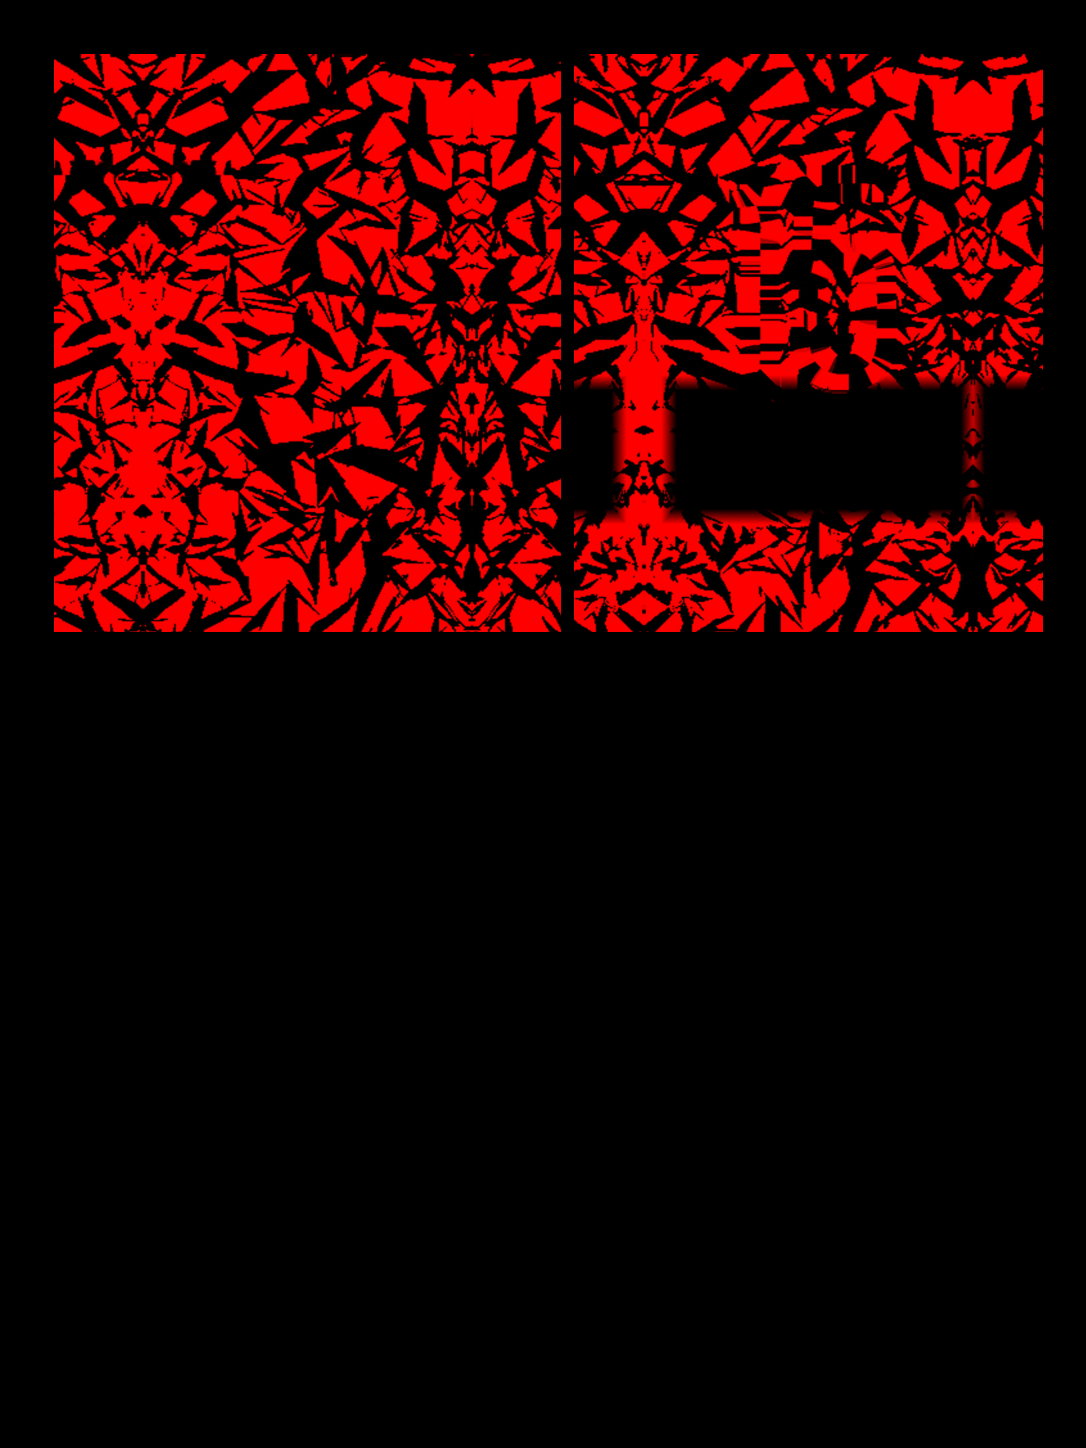
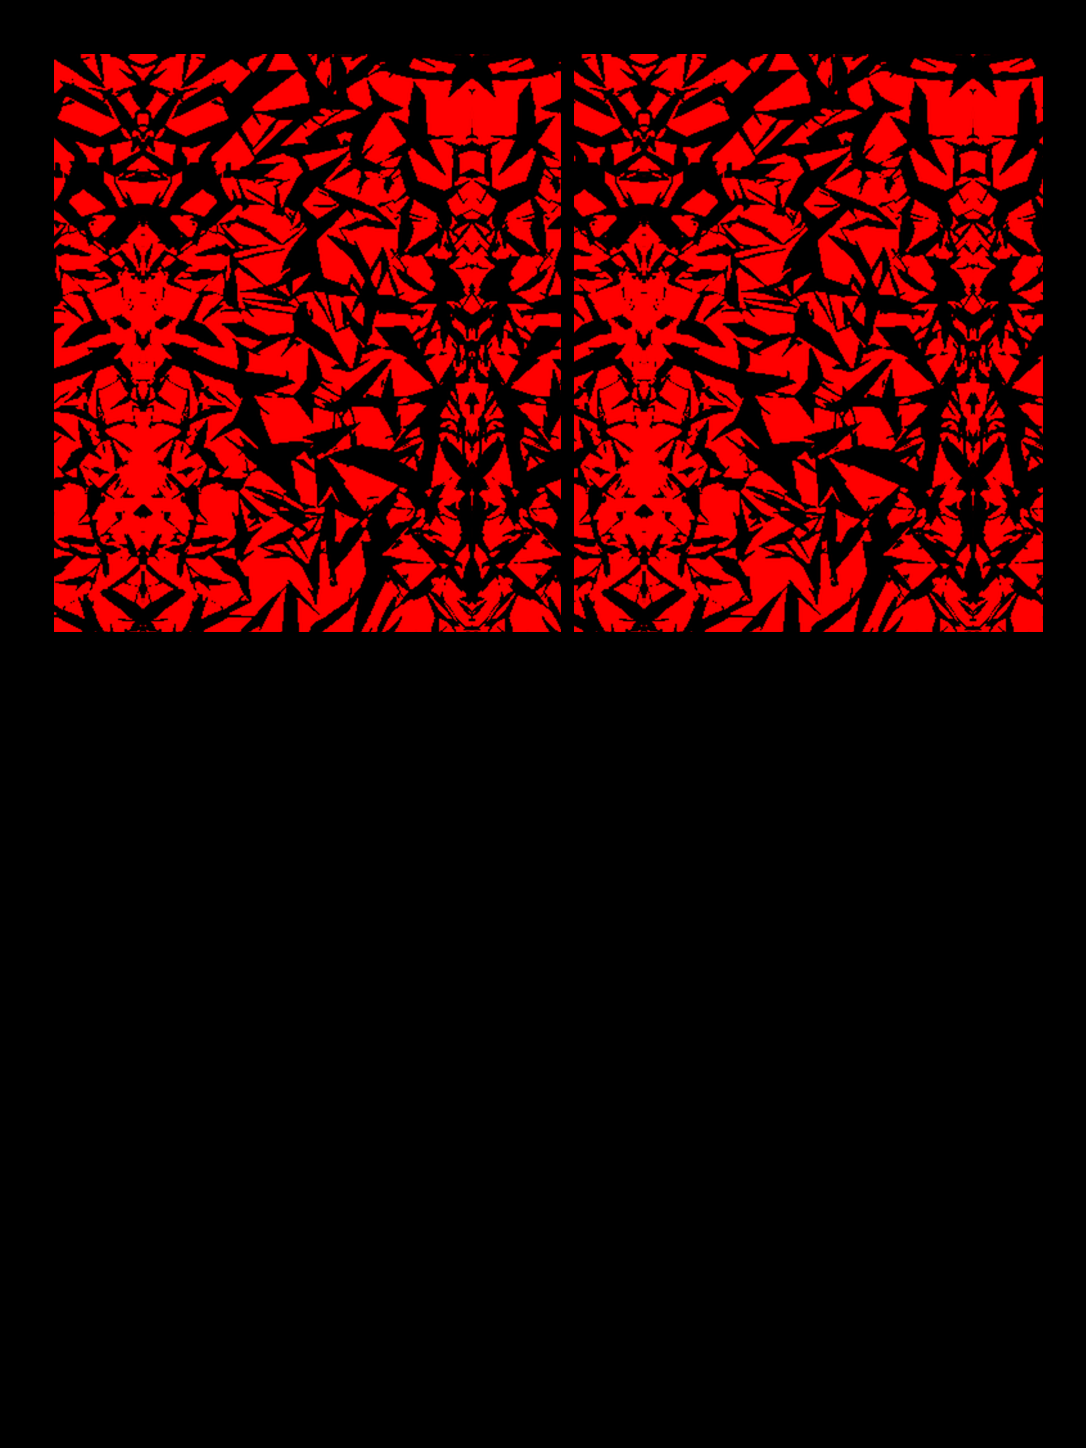
obnova

Changed region(s): [[0.5166, 0.0311, 0.9724, 0.4351]]

diff --git a/index.html b/index.html
@@ -7,7 +7,7 @@
   <meta name="description" content="Конструктор экипировки RLS: футбольная форма, костюмы, ветровки и зимние куртки в цветах вашей команды.">
   <title>RLS — Конструктор экипировки</title>
   <link rel="preload" href="assets/name-font.woff2?v=8" as="font" type="font/woff2" crossorigin>
-  <link rel="stylesheet" href="styles.css?v=22t1">
+  <link rel="stylesheet" href="styles.css?v=22t2">
 </head>
 <body>
   <header class="header">
@@ -58,10 +58,9 @@
       <section class="training-variant-section" id="trainingVariantSection" aria-labelledby="trainingVariantTitle" hidden>
         <h3 id="trainingVariantTitle">Вариант кофты</h3>
         <div class="training-options" role="group" aria-labelledby="trainingVariantTitle">
-          <button class="training-option active" data-training-part="top" data-mode="inserts" type="button" aria-pressed="true">С вставками</button>
+          <button class="training-option active" data-training-part="top" data-mode="inserts" type="button" aria-pressed="true">Со вставками</button>
           <button class="training-option" data-training-part="top" data-mode="print" type="button" aria-pressed="false">С принтом</button>
-          <button class="training-option" data-training-part="top" data-mode="plain" type="button" aria-pressed="false">Без принта</button>
-          <button class="training-option" data-training-part="bottom" data-mode="inserts" type="button" aria-pressed="true" hidden>С вставками</button>
+          <button class="training-option" data-training-part="bottom" data-mode="inserts" type="button" aria-pressed="true" hidden>Со вставками</button>
           <button class="training-option" data-training-part="bottom" data-mode="plain" type="button" aria-pressed="false" hidden>Без вставок</button>
         </div>
         <p class="name-hint" id="trainingVariantHint">Принт наносится только на кофту, включая рукава и воротник.</p>
@@ -143,6 +142,6 @@
     </div>
   </dialog>
   <div class="toast" id="toast" role="status" aria-live="polite"></div>
-  <script type="module" src="app.js?v=22t1"></script>
+  <script type="module" src="app.js?v=22t2"></script>
 </body>
 </html>

diff --git a/app.js b/app.js
@@ -5,8 +5,8 @@ import {drawBoots,BOOT_PLACEMENTS} from './boots.js?v=8';
 import {createExportFeedback,waitForExportPaint} from './export-feedback.js?v=12';
 import {normalizeSuitState,suitAsset} from './suit-renderer.js?v=20';
 import {createSuitPreview} from './suit-preview.js?v=20';
-import {normalizeTrainingState,trainingAsset} from './training-renderer.js?v=22t1';
-import {createTrainingPreview} from './training-preview.js?v=22t1';
+import {normalizeTrainingState,applyTrainingReferenceColors,trainingAsset} from './training-renderer.js?v=22t2';
+import {createTrainingPreview} from './training-preview.js?v=22t2';
 import {OUTERWEAR,createOuterwearConfig} from './outerwear-renderer.js?v=20';
 import {recordMockupDownload} from './download-stats.js?v=22';
 const $ = id => document.getElementById(id);
@@ -214,8 +214,8 @@ function updateControls() {
   $('backLogoColorButton').hidden=!state.backLogoEnabled;
   $('backLogoDot').style.backgroundColor=state.backLogo;
   const activePattern=isTraining?trainingState.pattern:state.pattern;
-  $('referenceColors').hidden=!PATTERNS.find(p=>p.id===activePattern)?.colors;
-  $('referenceColors').textContent=isTraining?'Цвета кофты как на макете':'Цвета комплекта как на макете';
+  $('referenceColors').hidden=!isTraining&&!PATTERNS.find(p=>p.id===activePattern)?.colors;
+  $('referenceColors').textContent=isTraining?'Цвета как на макете':'Цвета комплекта как на макете';
   $('surnameToggle').checked=state.surnameEnabled;
   $('surnameFields').hidden=!state.surnameEnabled;
   $('surnameInput').value=state.surnameText;
@@ -351,7 +351,7 @@ for(const button of document.querySelectorAll('.pattern-card')) button.addEventL
 });
 $('referenceColors').addEventListener('click',()=>{
   if(product==='training'){
-    const preset=PATTERNS.find(p=>p.id===trainingState.pattern);if(preset?.colors){trainingState.jacket=preset.base;preset.colors.forEach((color,i)=>trainingState[PRINT_KEYS[i]]=color);}
+    trainingState=applyTrainingReferenceColors(trainingState);
   }else state=applyReferenceColors(state);
   save();updateControls();scheduleRender();
 });

diff --git a/training-preview.js b/training-preview.js
@@ -1,4 +1,4 @@
-import {normalizeTrainingState,renderTrainingPixels,trainingSelectionAt,trainingAsset,trainingPatternAsset} from './training-renderer.js?v=22t1';
+import {normalizeTrainingState,renderTrainingPixels,trainingSelectionAt,trainingAsset,trainingPatternAsset} from './training-renderer.js?v=22t2';
 import {PATTERNS} from './renderer.js?v=22p2';
 import {createAssetCache} from './asset-cache.js?v=8';
 function loadImage(url){return new Promise((resolve,reject)=>{const image=new Image();image.decoding='async';image.onload=()=>resolve(image);image.onerror=()=>reject(new Error('Training image unavailable'));image.src=url;});}
@@ -41,7 +41,7 @@ export function createTrainingPreview(canvas,onPaint,onError){
         model=await loadModel(true);canvas.width=model.width;canvas.height=model.height;output=new Uint8ClampedArray(model.source.length);
         if(typeof Worker==='function'){
           try{
-            worker=new Worker(new URL('./training-worker.js?v=22t1',import.meta.url),{type:'module'});
+            worker=new Worker(new URL('./training-worker.js?v=22t2',import.meta.url),{type:'module'});
             await new Promise((resolve,reject)=>{
               const timeout=setTimeout(()=>reject(new Error('Use compatible preview')),4000);
               worker.onerror=()=>{clearTimeout(timeout);reject(new Error('Use compatible preview'));};
@@ -71,7 +71,7 @@ export function createTrainingPreview(canvas,onPaint,onError){
       if(typeof Worker==='function'){
         let exporter;
         try{
-          exporter=new Worker(new URL('./training-worker.js?v=22t1',import.meta.url),{type:'module'});
+          exporter=new Worker(new URL('./training-worker.js?v=22t2',import.meta.url),{type:'module'});
           return await new Promise((resolve,reject)=>{
             const timeout=setTimeout(()=>reject(new Error('Use compatible export')),20000);
             exporter.onmessage=({data})=>{clearTimeout(timeout);data.type==='complete'?resolve(data.blob):reject(new Error('Use compatible export'));};

diff --git a/training-renderer.js b/training-renderer.js
@@ -6,10 +6,18 @@ export function normalizeTrainingState(value){
   for(const key of TRAINING_COLOR_KEYS)if(/^#[0-9a-f]{6}$/i.test(value?.[key]||''))result[key]=value[key].toLowerCase();
   if(!/^#[0-9a-f]{6}$/i.test(value?.pantsInserts||''))result.pantsInserts=result.jacket;
   for(const key of ['jacket','inserts','pants','pantsInserts'])if(result[key]==='#191919')result[key]='#191d24';
-  if(['inserts','print','plain'].includes(value?.topMode))result.topMode=value.topMode;
+  if(['inserts','print'].includes(value?.topMode))result.topMode=value.topMode;
   if(['inserts','plain'].includes(value?.pantsMode))result.pantsMode=value.pantsMode;
   if(PATTERNS.some(p=>p.id===value?.pattern&&p.id!=='none'))result.pattern=value.pattern;
   return result;
+}
+export function applyTrainingReferenceColors(value){
+  const state=normalizeTrainingState(value),preset=state.pattern==='original'?{base:'#ffffff',colors:['#c2c2c2']}:PATTERNS.find(p=>p.id===state.pattern);
+  if(preset?.colors){
+    state.jacket=preset.base;state.pantsInserts=preset.base;state.pantsMode='inserts';
+    preset.colors.forEach((color,i)=>state[PRINT_KEYS[i]]=color);
+  }
+  return state;
 }
 export function trainingAsset(name,{preview=false}={}){
   const file=name==='model'?(preview?'preview.webp':'model.webp'):(preview?'preview-':'')+name+(name==='poster'||preview?'.webp':'.png');
@@ -17,7 +25,7 @@ export function trainingAsset(name,{preview=false}={}){
 }
 export function trainingPatternAsset(id,{preview=false,extra=false}={}){
   if(!PATTERNS.some(p=>p.id===id&&id!=='none'))throw new Error('Unknown training pattern');
-  return 'assets/training/'+(preview?'preview/':'')+'patterns/'+id+(extra?'-extra':'')+'.png?v=22t1';
+  return 'assets/training/'+(preview?'preview/':'')+'patterns/'+id+(extra?'-extra':'')+'.png?v=22t2';
 }
 const rgb=hex=>[1,3,5].map(i=>parseInt(hex.slice(i,i+2),16));
 const byte=value=>Math.max(0,Math.min(255,Math.round(value)));

diff --git a/training-worker.js b/training-worker.js
@@ -1,4 +1,4 @@
-import {renderTrainingPixels,trainingAsset,trainingPatternAsset} from './training-renderer.js?v=22t1';
+import {renderTrainingPixels,trainingAsset,trainingPatternAsset} from './training-renderer.js?v=22t2';
 import {PATTERNS} from './renderer.js?v=22p2';
 let model,frame,pattern=null;
 async function decode(url){
